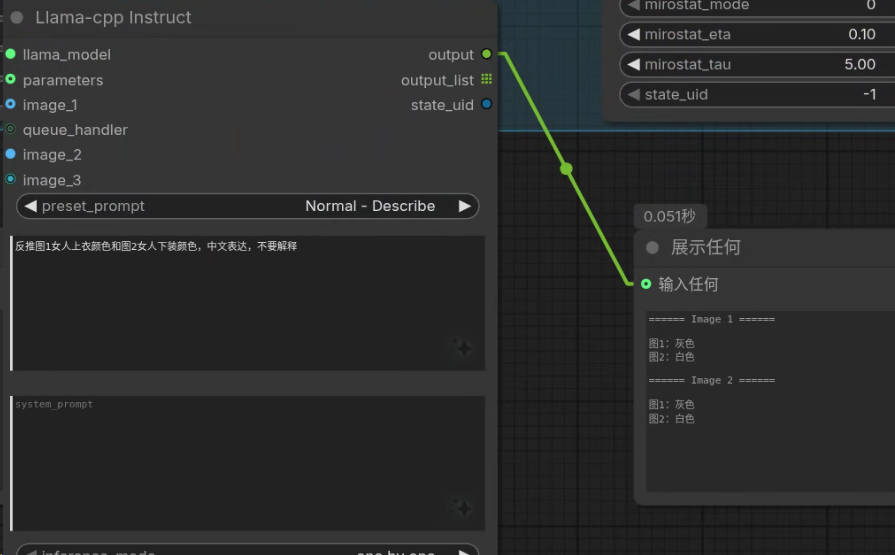
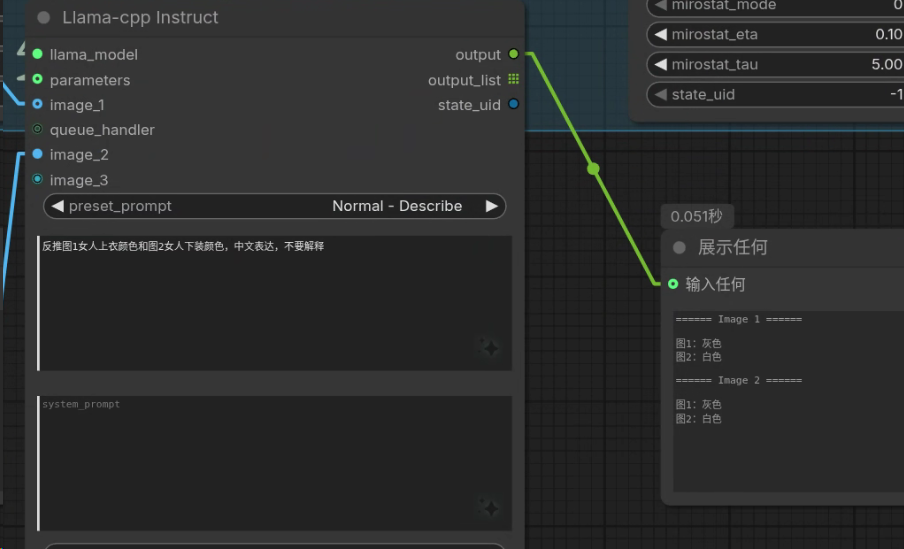
动态加入图片

diff --git a/README.md b/README.md
@@ -1,2 +1,2 @@
 # comfyui-llama-cpp
-![alt text](image-2.png)
+![alt text](image.png)
